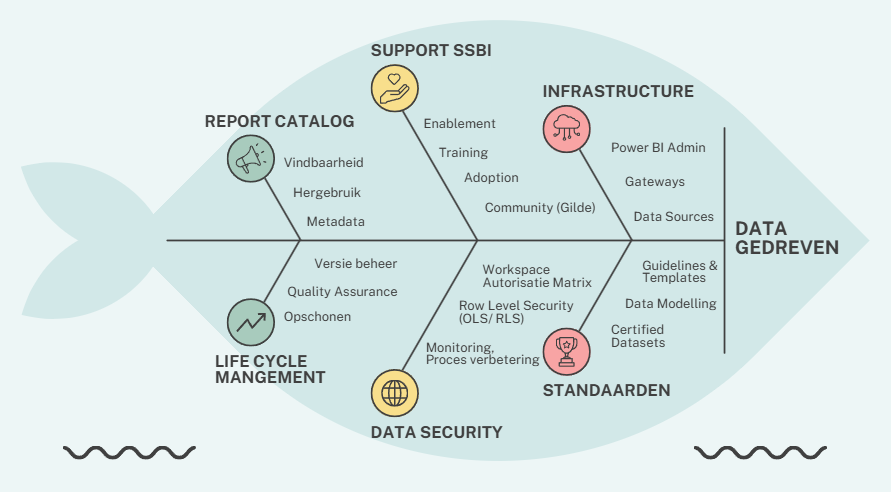
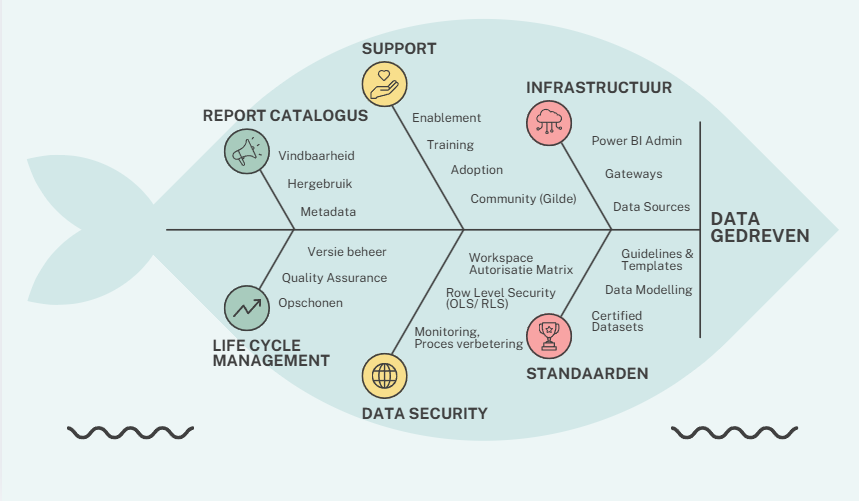
nieuwe vis en data drive

diff --git a/driven.html b/driven.html
@@ -1,0 +1,175 @@
+<!DOCTYPE html>
+<html lang="nl">
+<head>
+  <meta charset="UTF-8" />
+  <meta name="viewport" content="width=device-width, initial-scale=1.0" />
+  <title>Data gedreven | Nico 't Hoen</title>
+  <link rel="stylesheet" href="styles.css" />
+  <link rel="icon" type="image/png" href="images/semantiverse_green.png" />
+
+  <style>
+    .resume-card{
+      background: var(--white);
+      border: 1px solid rgba(0,0,0,0.06);
+      border-radius: 12px;
+      padding: 1.5rem;
+    }
+
+    .page-header{
+      text-align: center;
+      margin-bottom: 1.5rem;
+    }
+
+    .page-header h1{
+      margin: 0;
+      font-size: 1.8rem;
+      line-height: 1.2;
+    }
+
+    .page-header h2{
+      margin: 0.5rem 0 0;
+      font-size: 1.1rem;
+      font-weight: 600;
+      color: var(--text-muted);
+    }
+
+    .resume-box{
+      border: 1px solid rgba(0,0,0,0.06);
+      border-radius: 12px;
+      padding: 1.25rem;
+      background: var(--bg-soft);
+    }
+
+    .resume-box p{
+      margin: 0 0 1rem;
+      line-height: 1.7;
+      color: var(--text-dark);
+    }
+
+    .resume-box p:last-child{
+      margin-bottom: 0;
+    }
+
+    .hero-image{
+      width: 100%;
+      max-width: 900px;
+      display: block;
+      margin: 0 auto 1.5rem;
+      border-radius: 12px;
+    }
+
+    .hero-caption{
+      margin: 0 0 1rem;
+      font-size: 1.05rem;
+      line-height: 1.6;
+      font-weight: 600;
+      color: var(--text-dark);
+    }
+
+    .existing-copy p{
+      font-size: 0.88rem;
+      line-height: 1.5;
+    }
+
+    @media (max-width: 850px){
+      .page-jump{
+        position: static;
+        margin-top: 10px;
+        justify-content: center;
+      }
+    }
+  </style>
+</head>
+
+<body>
+  <header>
+    <div id="site-header"></div>
+
+    <script>
+      fetch("header.html")
+        .then(r => r.text())
+        .then(html => {
+          document.getElementById("site-header").innerHTML = html
+
+          const pageSelect = document.getElementById("pageSelect")
+          const current = location.pathname.split("/").pop() || "index.html"
+
+          if (pageSelect) {
+            pageSelect.value = current
+            pageSelect.addEventListener("change", function () {
+              if (this.value) window.location.href = this.value
+            })
+          }
+        })
+    </script>
+  </header>
+
+  <main>
+    <section class="resume-card">
+
+      <div class="page-header">
+        <h1>Power BI Platform & Analytics Lead</h1>
+        <h2>Data gedreven werken: de vis die vooruitkomt</h2>
+      </div>
+
+      <div class="resume-box">
+        <img src="images/vis thoendra.png" alt="Power BI Platform & Analytics Lead" class="hero-image" />
+
+        <p class="hero-caption">
+          Data gedreven werken is geen dashboard. Het is een levend geheel - van infrastructuur tot community. Als Power BI Platform & Analytics Lead geloof ik dat een organisatie alleen echt vooruit komt als techniek, standaarden, security en mensen elkaar versterken. Een gedreven vis zwemt altijd vooruit. 
+          
+        </p>
+
+        <div class="existing-copy">
+        <p>
+
+          Stel je een vis voor in open water. Niet een vis die spartelt of rondjes draait, maar een vis die soepel en doelgericht vooruitkomt. Elke beweging heeft een reden. Elk onderdeel doet zijn werk. En precies zo werkt een organisatie die echt data gedreven is.
+        </p>
+
+        <p>
+          Het begint bij de ruggengraat. Zonder een sterke infrastructuur komt er niets in beweging. Een goed ingerichte omgeving met betrouwbare databronnen zorgt dat data soepel door de organisatie stroomt, precies daar waar iemand erop wacht.
+        </p>
+
+        <p>
+          Maar kracht alleen is niet genoeg. Standaarden geven de organisatie haar vorm. Richtlijnen, gecertificeerde datasets en heldere afspraken zorgen ervoor dat niet iedereen zijn eigen kant op zwemt. Rapportages worden vergelijkbaar, informatie herkenbaar betrouwbaar. Er ontstaat een gedeelde taal, en die taal maakt samenwerking mogelijk.
+        </p>
+
+        <p>
+          Dan is er de huid, onzichtbaar misschien, maar onmisbaar. Data security beschermt wat kwetsbaar is. Met de juiste autorisaties en beveiligingslagen blijft gevoelige informatie bij de mensen die er verantwoordelijk voor zijn. Wie goed monitort, ziet op tijd waar iets schuurt.
+        </p>
+
+        <p>
+          Een gezonde vis heeft ook onderhoud nodig. Rapportages verouderen, datasets groeien scheef. Life cycle management houdt het datalandschap fris, overzichtelijk en bruikbaar, het onderhoud dat niemand glamoureus vindt, maar iedereen nodig heeft.
+        </p>
+
+        <p>
+          Wie weet wat er is, hoeft het niet opnieuw te maken. Een goede report catalog is het geheugen van de organisatie. Rapporten die logisch zijn beschreven en gecategoriseerd, worden hergebruikt en verder gebouwd. Dat bespaart tijd én vergroot vertrouwen.
+        </p>
+
+        <p>
+          En dan zijn er de vinnen. Zonder vinnen zwemt geen vis. Goede ondersteuning, training en een actieve community geven mensen de vrijheid om zelf met data aan de slag te gaan. Zo groeit niet alleen de kennis, maar ook het zelfvertrouwen.
+        </p>
+
+        <p>
+          Pas als al deze onderdelen in balans zijn, zwemt de organisatie echt vooruit. Data gedreven werken is geen project dat je afrond, het is een levend geheel. Een sterke vis, met een duidelijke richting en genoeg kracht om samen vooruit te komen.
+        </p>
+        </div>
+      </div>
+    </section>
+  </main>
+
+  <footer>
+    <p><img src="images/semantiverse_green.png" alt="Semantiverse" class="profile-pic" /></p>
+  </footer>
+
+  <script>
+    const pageSelect = document.getElementById("pageSelect")
+    if (pageSelect) {
+      pageSelect.addEventListener("change", function () {
+        const target = this.value
+        if (target) window.location.href = target
+      })
+    }
+  </script>
+</body>
+</html>
